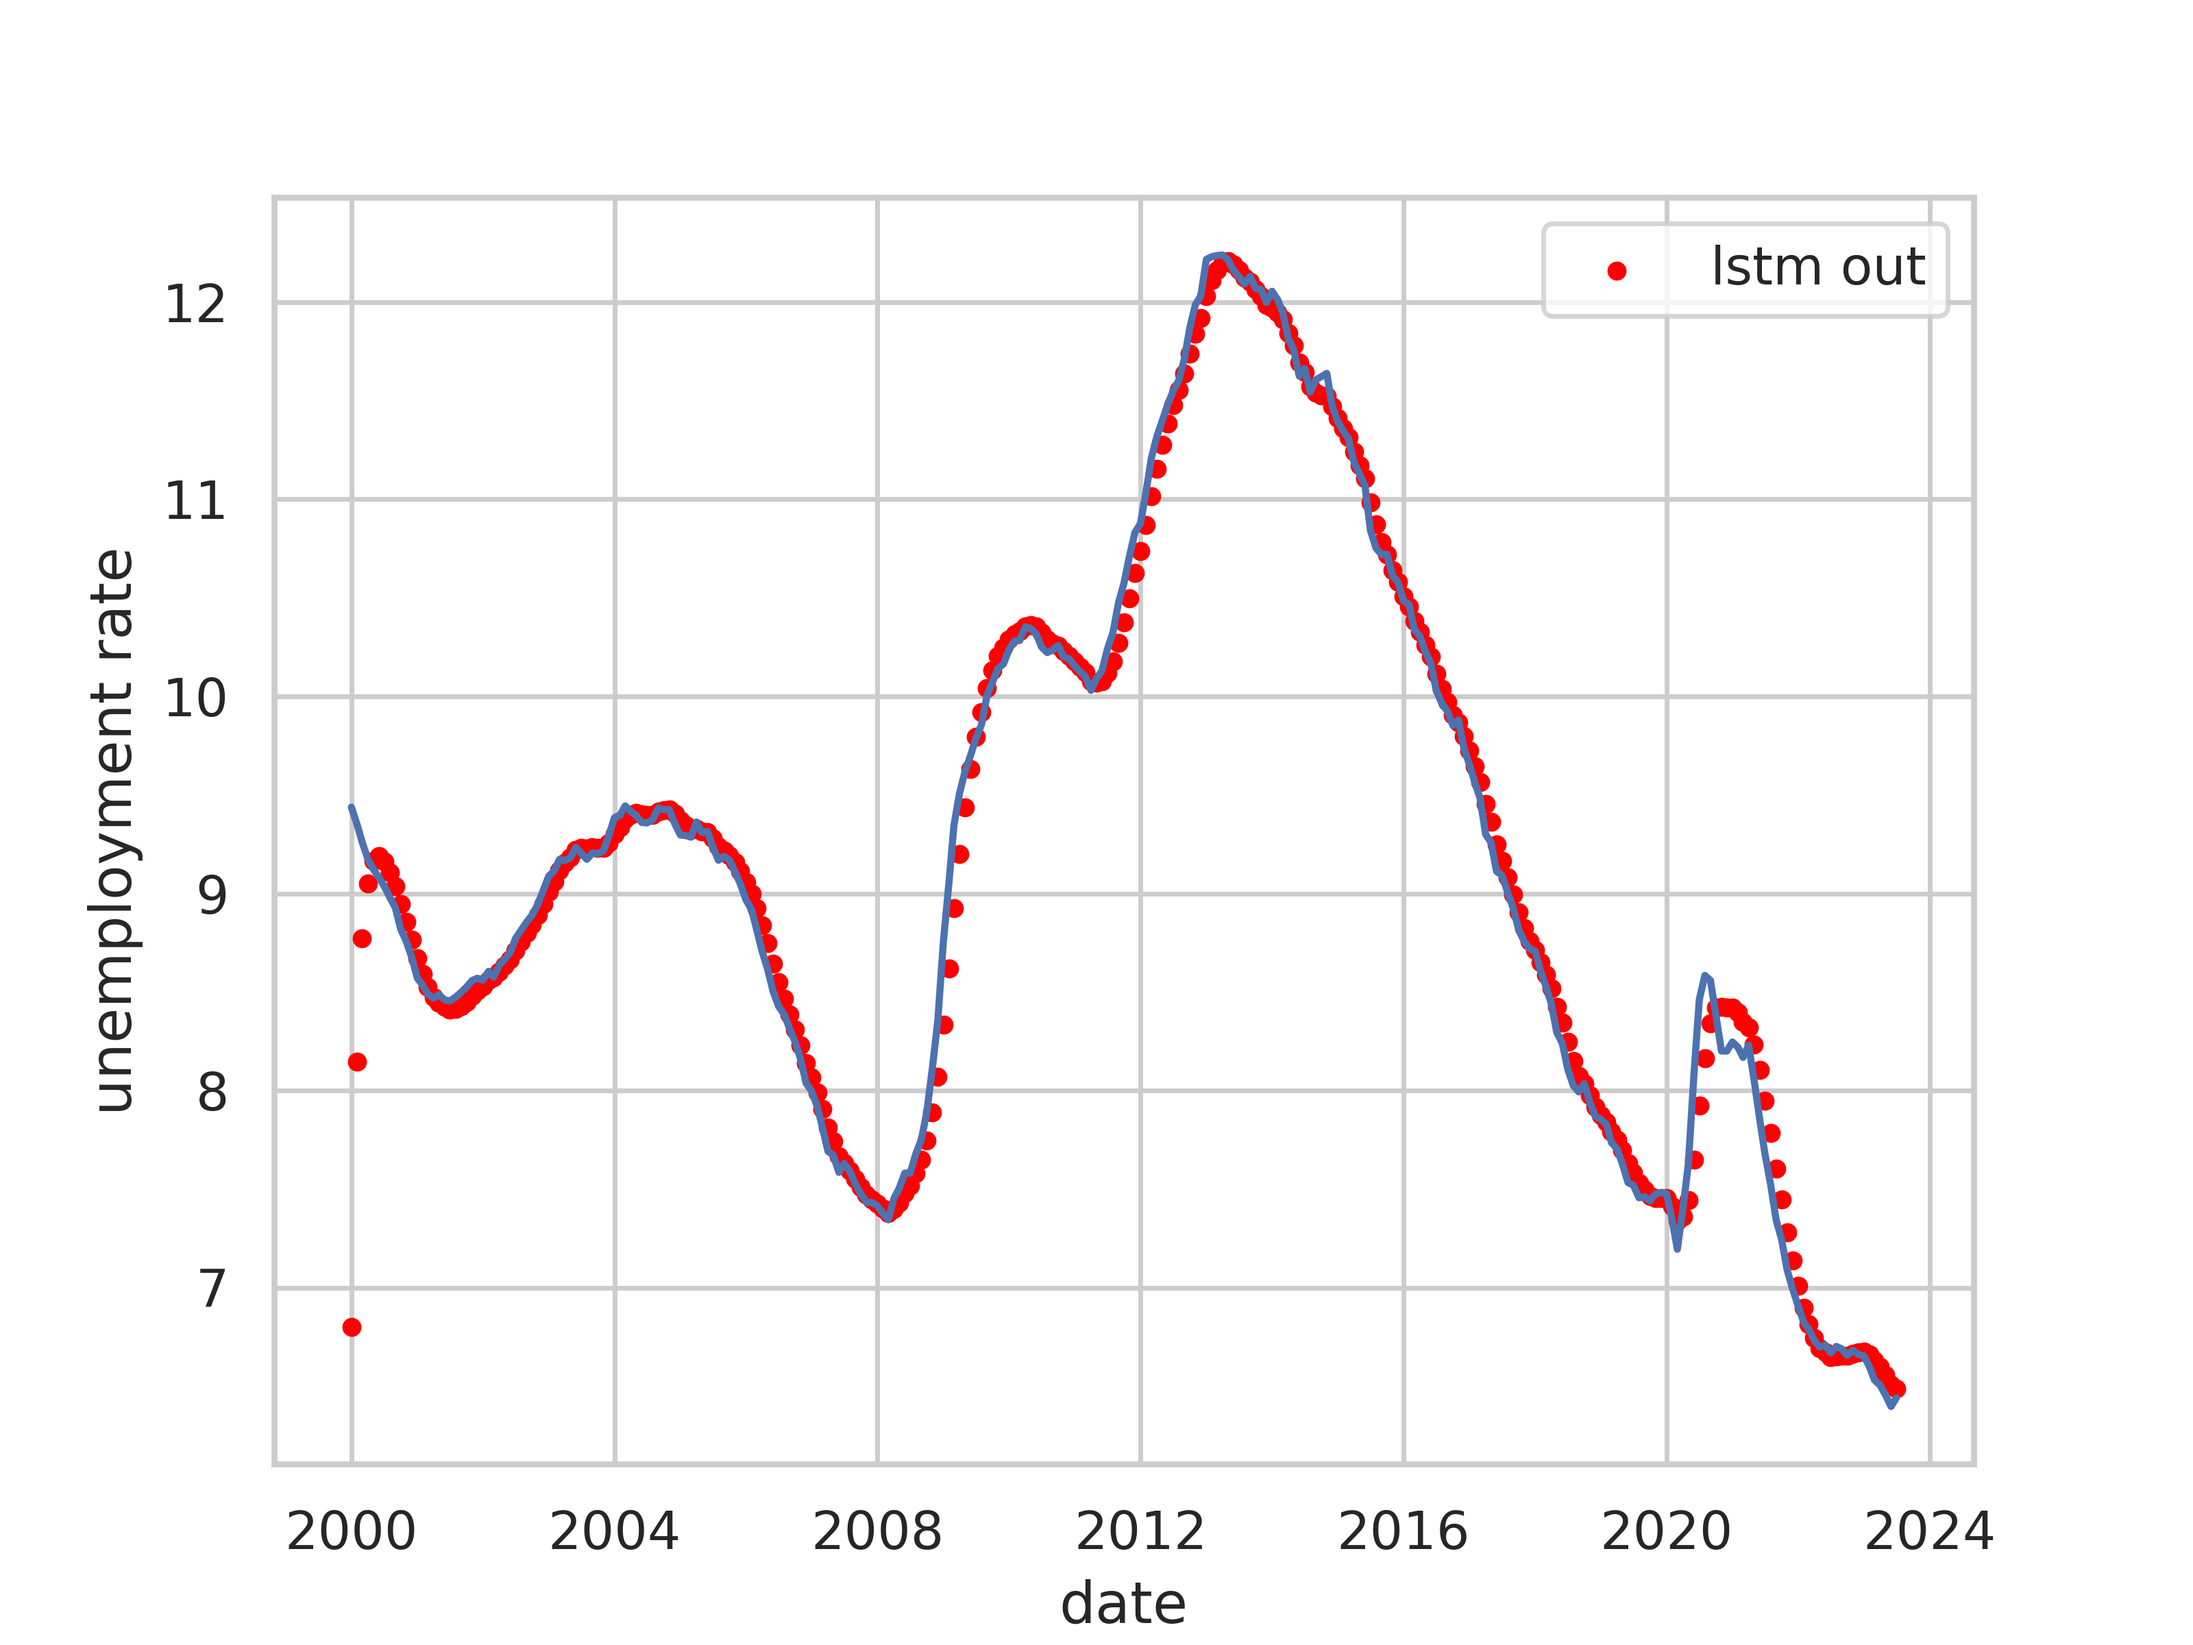
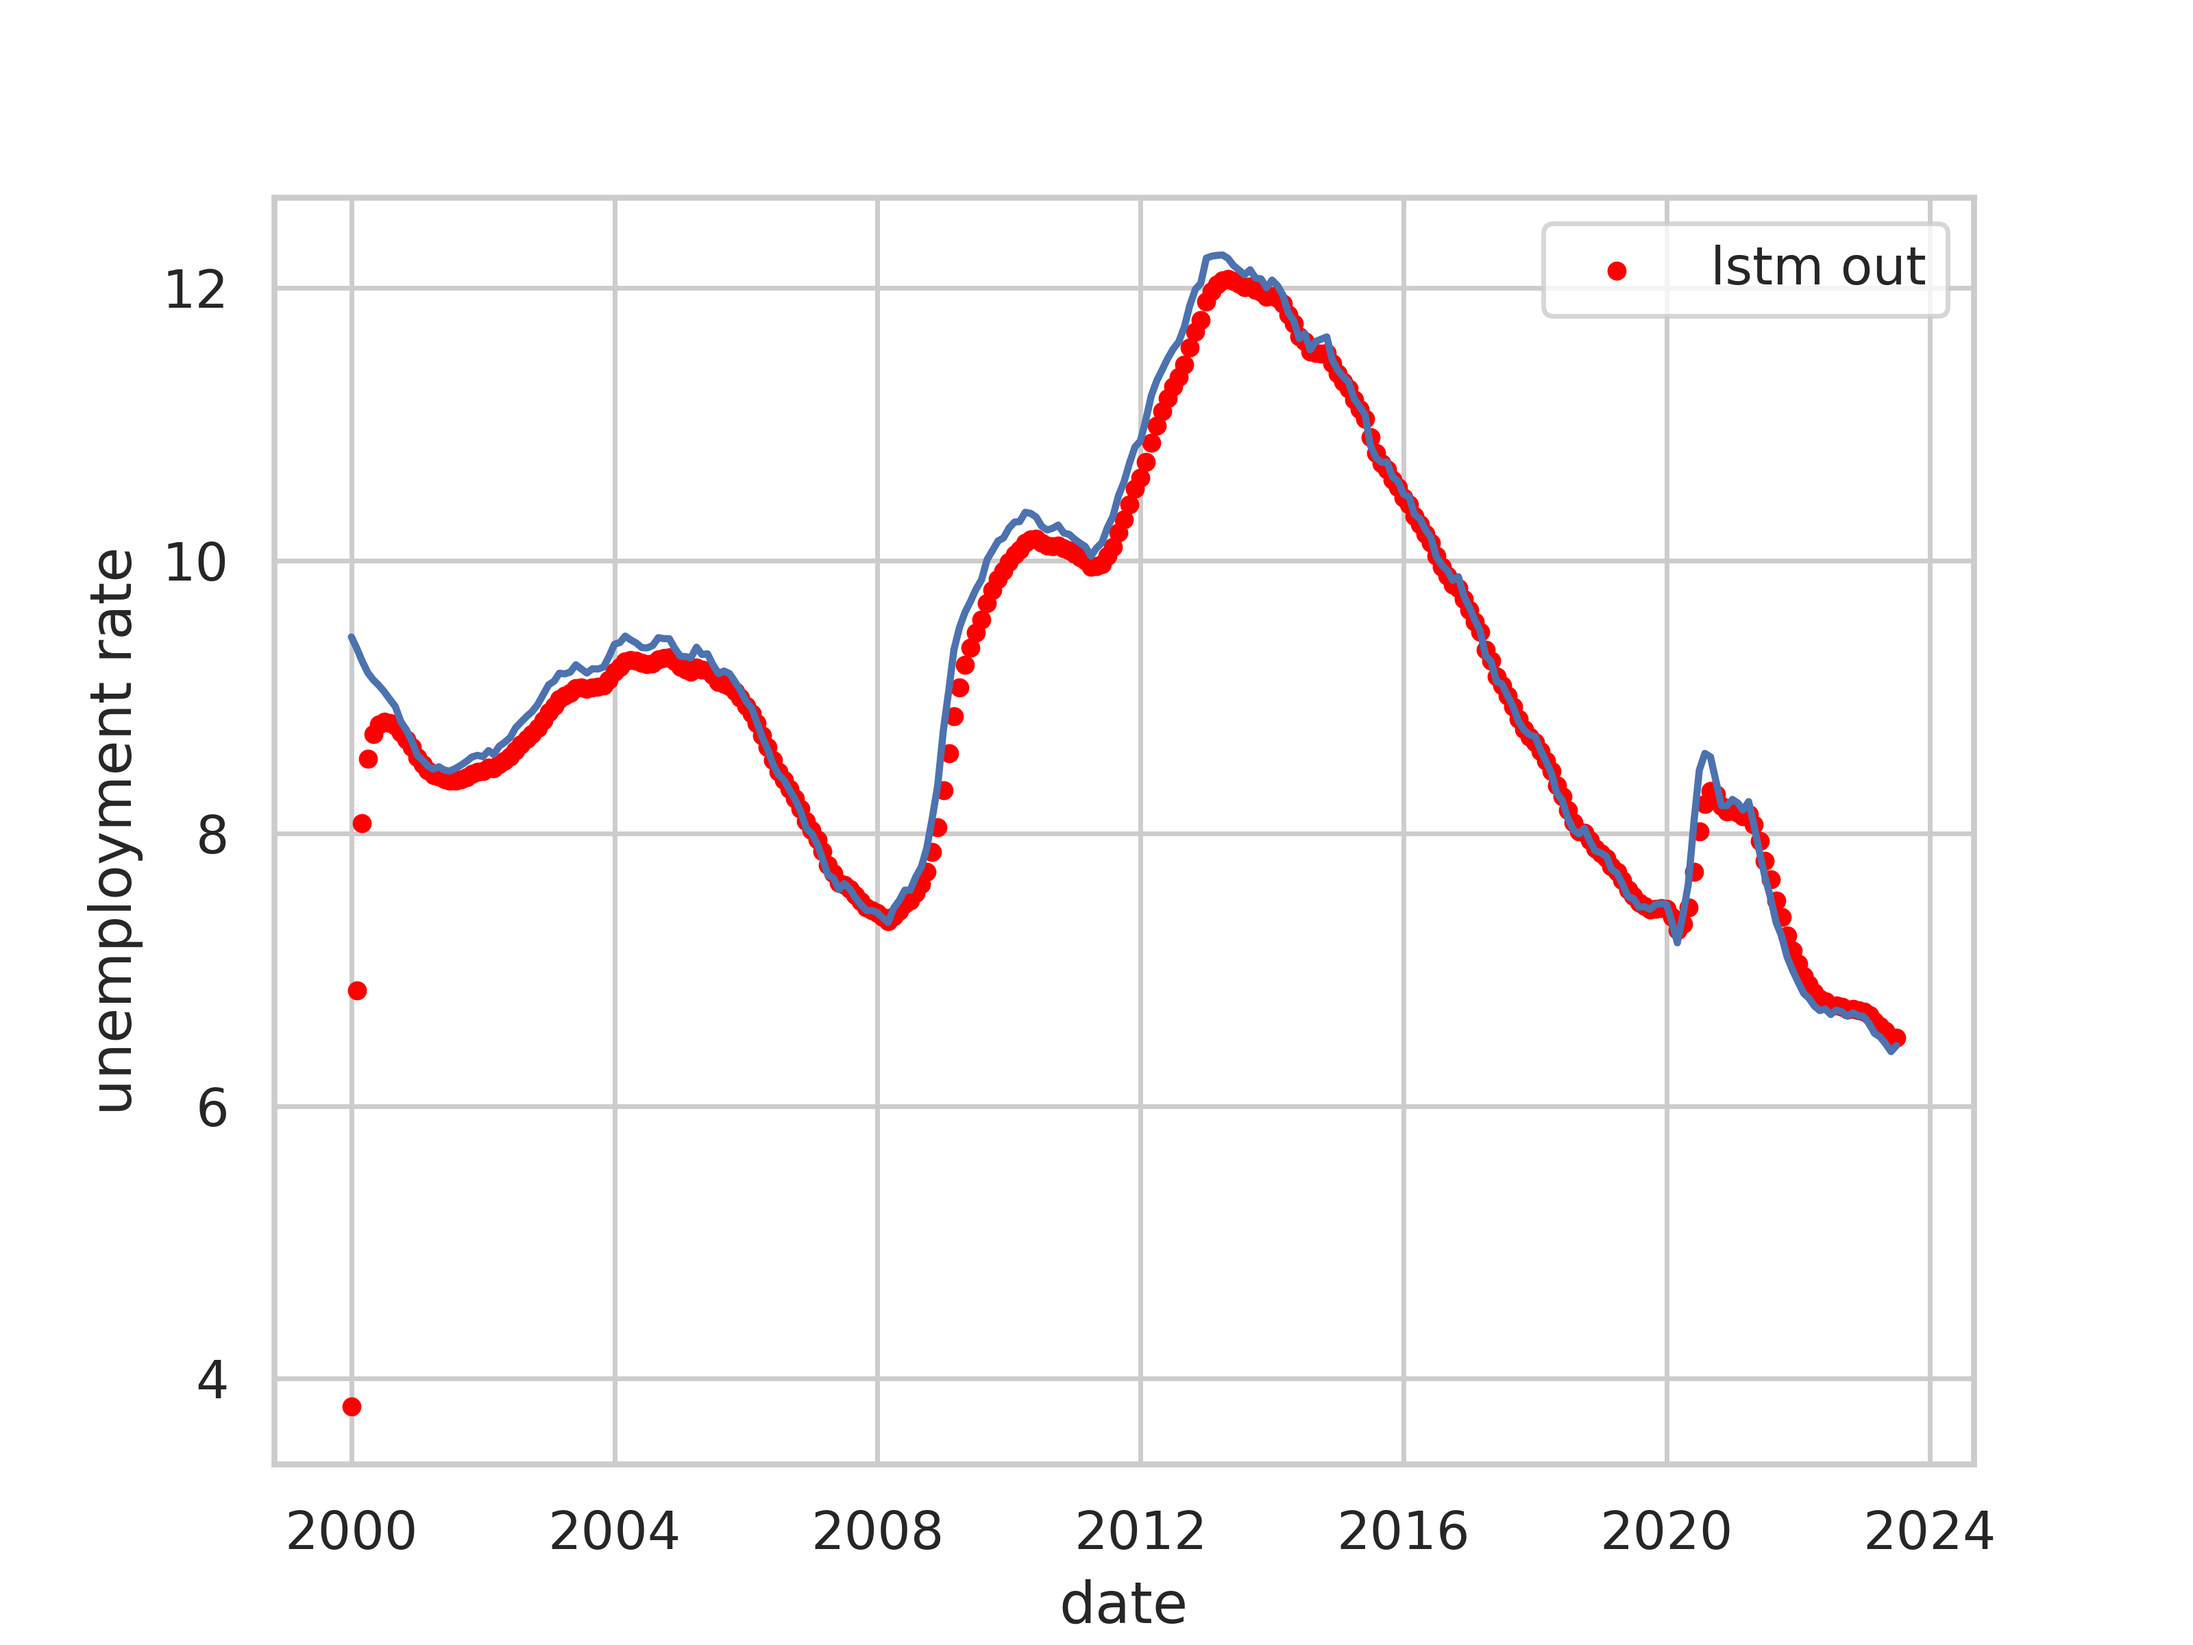
add save and load function to lstm
also commit a pretrained lstm

diff --git a/src/eu_unemployment_prediction/lstm/unemployment_lstm.py b/src/eu_unemployment_prediction/lstm/unemployment_lstm.py
@@ -1,4 +1,5 @@
-from typing import Optional, Tuple, Union, overload
+from pathlib import Path
+from typing import Optional, Tuple, overload
 
 import torch
 from torch import nn, Tensor
@@ -34,9 +35,25 @@ class UnemploymentLstm(nn.Module):
             return result
         return result, new_hidden
 
+    def save(self, file_path: Path) -> None:
+        torch.save(self.state_dict(), file_path)
+
+    @classmethod
+    def load(cls, file_path: Path) -> "UnemploymentLstm":
+        state_dict = torch.load(file_path)
+        hidden_dim = state_dict["_output_layer.weight"].shape[1]  # don't ask.
+        loaded_model = cls(hidden_dim=hidden_dim)
+        loaded_model.load_state_dict(state_dict)
+        loaded_model.eval()
+        return loaded_model
+
 
 if __name__ == "__main__":
-    my_lstm = UnemploymentLstm(hidden_dim=16)
+    my_lstm = UnemploymentLstm(hidden_dim=8)
+    model_save_path = Path(__file__).parent.parent.parent.parent / "model" / "lstm" / "lstm.pt"
+    my_lstm.save(model_save_path)
+    other_lstm = UnemploymentLstm.load(model_save_path)
+
     inputs = [torch.tensor([i / 10.0]) for i in range(9)]
     lstm_inputs = torch.cat(inputs).view(len(inputs), 1, -1)
-    result2 = my_lstm(lstm_inputs)
+    result2 = other_lstm(lstm_inputs)

diff --git a/src/eu_unemployment_prediction/lstm/unemployment_lstm_trainer.py b/src/eu_unemployment_prediction/lstm/unemployment_lstm_trainer.py
@@ -32,6 +32,10 @@ class UnemploymentLstmTrainer:
         # todo: "unemployment rate norm"
         self._input_data = input_data.iloc[::-1]
 
+    @property
+    def model(self) -> UnemploymentLstm:
+        return self._model
+
     def run(self, epochs: int = 1000, chunk_size: int = 10, learning_rate: float = 0.001) -> None:
         train_chunks = [
             self._input_data.iloc[i : i + chunk_size] for i in range(0, self._input_data.shape[0], chunk_size)
@@ -89,9 +93,12 @@ if __name__ == "__main__":
     project_dir = Path(__file__).parent.parent.parent.parent
     data_dir = project_dir / "data"
     img_dir = project_dir / "img"
+    model_path = project_dir / "model" / "lstm" / "unemployment_lstm.pt"
+
     input_data = InputDataType.UNEMPLOYMENT.load_with_normalized_column(data_dir)
     trainer = UnemploymentLstmTrainer(UnemploymentLstm(64), input_data)
 
-    trainer.run(epochs=2000, chunk_size=50, learning_rate=0.001)
+    trainer.run(epochs=5000, chunk_size=30, learning_rate=0.0001)
 
+    trainer.model.save(model_path)
     trainer.plot(img_dir / "lstm_unemployment.png")

diff --git a/test/eu_unemployment_prediction/lstm/test_unemployment_lstm.py b/test/eu_unemployment_prediction/lstm/test_unemployment_lstm.py
@@ -1,0 +1,7 @@
+from pathlib import Path
+
+from eu_unemployment_prediction.lstm import UnemploymentLstm
+
+
+def test_load_with_pretrained_model_without_error(data_dir: Path, module_dir: Path) -> None:
+    UnemploymentLstm.load(module_dir / "lstm" / "unemployment_lstm.pt")

diff --git a/test/conftest.py b/test/conftest.py
@@ -11,3 +11,8 @@ def project_dir() -> Path:
 @pytest.fixture
 def data_dir(project_dir: Path) -> Path:
     return project_dir / "data"
+
+
+@pytest.fixture
+def module_dir(project_dir: Path) -> Path:
+    return project_dir / "model"
